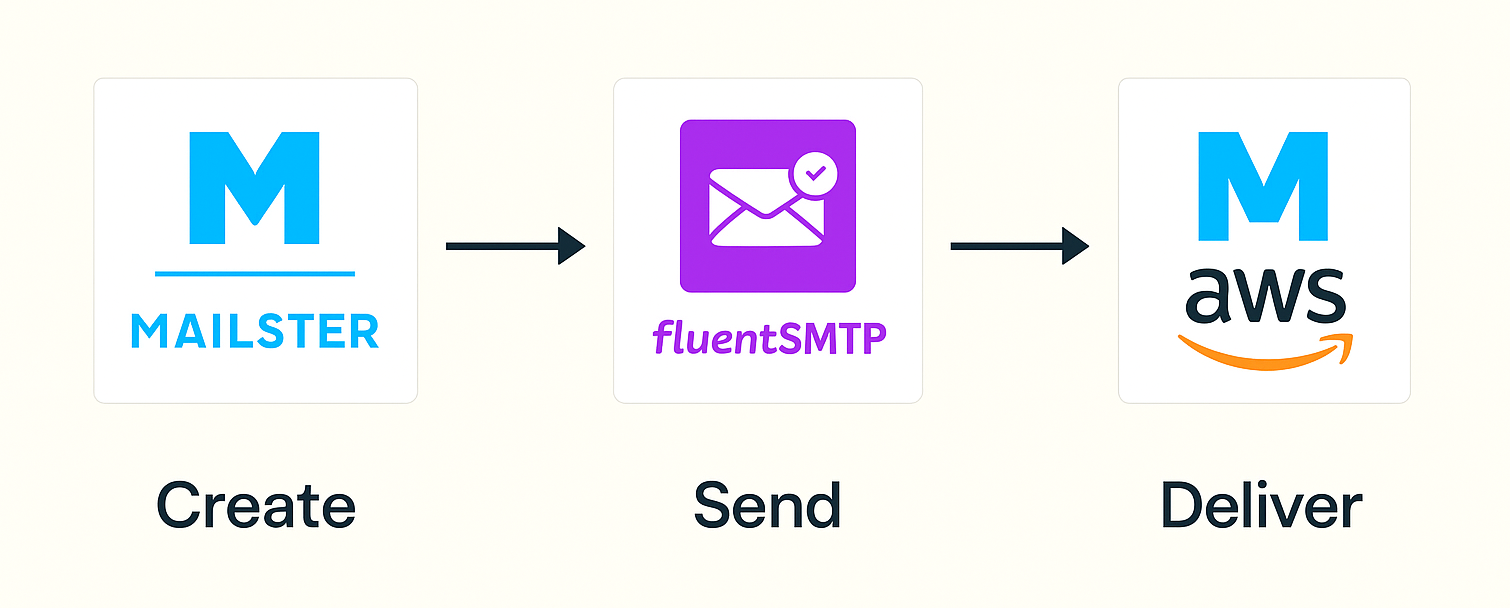
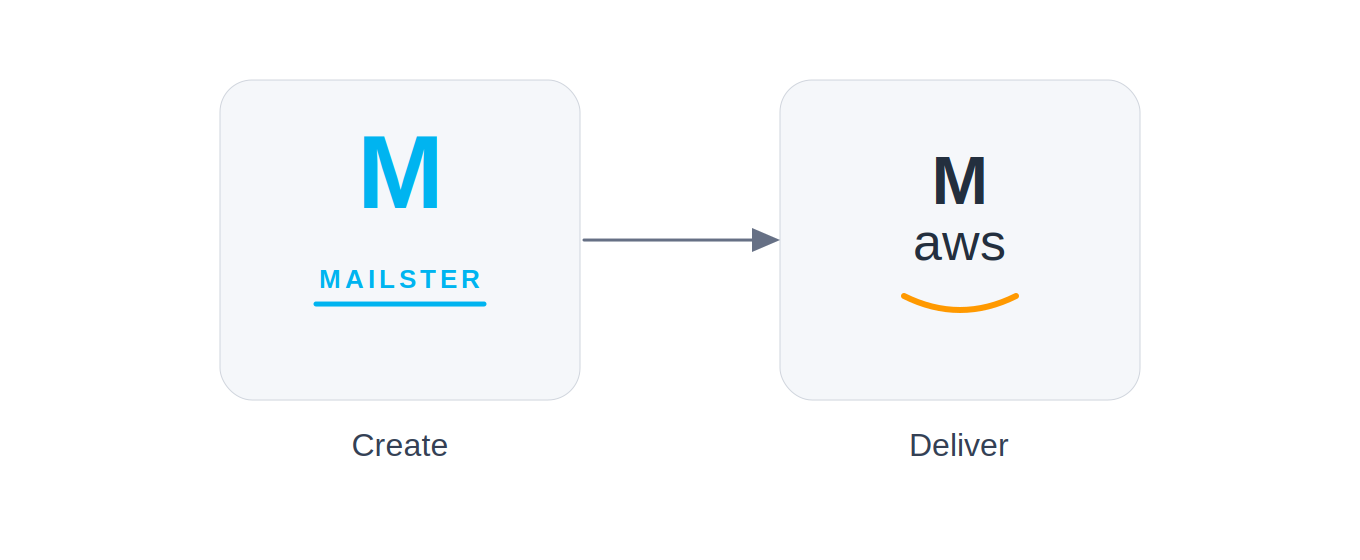
Update README and workflow diagram — remove FluentSMTP

diff --git a/README.md b/README.md
@@ -1,47 +1,54 @@
+# WordPress Newsletter System with Mailster and Amazon SES
 
-# WordPress Newsletter System with Mailster, FluentSMTP, and Amazon SES
+This project documents how I set up a cost-effective, high-deliverability newsletter system for [MamboCity London](https://mambocity.co.uk) using:
 
-This project documents how I set up a cost-effective, high-deliverability newsletter system using:
+- ✅ [Mailster](https://mailster.co/) for newsletter creation and subscriber management
+- ✅ [Amazon SES](https://aws.amazon.com/ses/) for reliable bulk email sending at near-zero cost
+- ✅ Google Analytics via MonsterInsights for full reader behaviour tracking beyond the email
 
-- ✅ [Mailster](https://mailster.co) for newsletter creation and subscriber management
-- ✅ [FluentSMTP](https://fluentsmtp.com) for email delivery integration
-- ✅ [Amazon SES](https://aws.amazon.com/ses/) for reliable bulk email sending
-
-The solution enables me to send bi-monthly campaigns to ~9,000 opted-in subscribers directly from my WordPress website.
-
----
-
-## Workflow
-
-This outlines how the components interact during the email sending process:
-
-<img src="workflow-diagram.png" alt="Workflow Diagram" width="600">
-
-1. **Mailster** – user interface for campaign creation and list management
-2. **FluentSMTP** – delivery bridge that routes outgoing emails
-3. **Amazon SES** – final sender that delivers the emails to recipients
-
-> **Mailster → FluentSMTP → Amazon SES**
+The solution sends approximately monthly campaigns to ~9,000 opted-in subscribers directly from WordPress, with three independent analytics layers that outperform any commercial email platform.
 
 ---
 
-## Startup Costs & Options
+## Architecture
 
-- **Mailster License**: $199 one-time (via CodeCanyon)
-  - Used for managing subscribers, list segmentation, unsubscribe links, and profile update options
-  - Optional — you can use SES + FluentSMTP without Mailster if you handle subscribers another way
-- **FluentSMTP**: Free
-- **Amazon SES**: ~$0.10 per 1,000 emails
+Mailster connects directly to Amazon SES via IAM credentials. No intermediary SMTP bridge is required.
+
+<img src="workflow-diagram.png" alt="Workflow Diagram: Mailster creates, Amazon SES delivers" width="600">
+
+> **Mailster (Create) → Amazon SES (Deliver)**
+
+**Note:** FluentSMTP was used in the initial configuration as a routing bridge but was subsequently removed. Mailster now connects to SES directly via IAM credentials, which simplified the architecture and improved reliability.
+
+---
+
+## Cost
+
+| Component | Cost |
+|---|---|
+| Mailster licence | $199 one-off (CodeCanyon) |
+| Amazon SES | ~$0.10 per 1,000 emails |
+| Cost per send to 9,000 subscribers | ~$0.90 (~£0.72) |
+| Annual cost (approx. monthly sends) | ~£9 per year |
+
+### vs Commercial Platforms (9,000 subscribers)
+
+| Platform | Monthly cost | Annual saving vs this solution |
+|---|---|---|
+| Mailchimp | ~£87–107 | ~£1,071–1,431 |
+| Constant Contact Standard | ~£128 | ~£1,527 |
+| Constant Contact Premium | ~£220 | ~£2,631 |
+| Klaviyo | ~£100–150 | ~£1,191–1,791 |
+| **This solution (AWS SES)** | **~£0.72 per send** | **Baseline** |
 
 ---
 
 ## Tech Stack
 
 - WordPress (self-hosted via SiteGround)
-- Mailster (Premium plugin)
-- FluentSMTP (Free plugin)
-- Amazon Simple Email Service (SES)
-- Google Workspace (for inbox email)
+- Mailster (premium plugin, $199 one-off licence)
+- Amazon Simple Email Service (SES) — eu-west-2 (London)
+- Google Workspace (regular inbox email, preserved alongside SES)
 - DNS and hosting managed via SiteGround
 
 ---
@@ -53,90 +60,138 @@ This outlines how the components interact during the email sending process:
 - **Domain**: `mambocity.co.uk`
 - **Registrar & DNS**: SiteGround
 - **Email hosting**: Google Workspace
-- **SES domain verification**: Done
+- **SES domain verification**: Completed in AWS console
 - **DNS records added on SiteGround**:
   - ✅ SPF: `v=spf1 include:_spf.google.com include:amazonses.com ~all`
-  - ✅ DKIM: 3x CNAME records from SES
+  - ✅ DKIM: 3x CNAME records provided by SES, all verified
   - ✅ DMARC: `v=DMARC1; p=none; aspf=r; adkim=r;`
-  - ✅ MX (MAIL FROM): `mail.mambocity.co.uk`
-- Preserved Google MX records for regular inbox use
+  - ✅ MAIL FROM: `mail.mambocity.co.uk` (subdomain, preserves Google MX on root domain)
+- Google MX records preserved for regular inbox use alongside SES
 
-### 2. FluentSMTP Configuration
+### 2. Mailster Configuration & SES Integration
 
-- Region: `eu-west-2 (London)`
-- IAM user created with `AmazonSESFullAccess`
-- Access Key and Secret Key stored securely
-- Domain and MAIL FROM verified
-- Production access granted (50,000 emails/day, 14/sec)
-- Test email successfully sent and passed SPF/DKIM checks
+- Mailster premium plugin installed via CodeCanyon
+- ~9,000 subscribers uploaded via CSV
+- Mailing lists created and configured
+- Opt-in forms and profile update pages set up
+- Unsubscribe links enabled and tested
+- In Mailster delivery settings: Amazon SES selected as delivery method, IAM Access Key and Secret Key entered directly
 
-### 3. WordPress Plugin Setup
+### 3. AWS SES Configuration
 
-#### FluentSMTP
-- Installed plugin and configured connection to Amazon SES via IAM credentials
-- Ensures WordPress `wp_mail()` sends through SES
+- IAM user created with `AmazonSESFullAccess` policy
+- Access Key and Secret Key stored securely in Mailster delivery settings
+- Region: `eu-west-2` (London)
+- MAIL FROM domain configured: `mail.mambocity.co.uk`
+- Production access granted (50,000 emails/day, 14 per second)
+- Test email sent and confirmed, passing SPF and DKIM checks
 
-#### Mailster
-- Installed premium plugin via CodeCanyon
-- Uploaded ~9,000 subscribers (via CSV)
-- Created mailing lists and opt-in forms
-- Enabled profile updates and mailing list selection by users
+### 4. Integration Testing
 
-### 4. Integration: Mailster + FluentSMTP
-
-- In Mailster: selected **SMTP** but left all fields blank
-- FluentSMTP intercepts and routes Mailster emails via SES
-- No additional SES plugin for Mailster required
-
-### 5. Testing and Sending
-
-- Created and sent internal test campaign via Mailster
-- Confirmed delivery, formatting, unsubscribe links, tracking
+- Internal test campaign created and sent via Mailster
+- Delivery, formatting and unsubscribe links confirmed working
+- Open and click tracking confirmed active in Mailster analytics
 - Scaled up to full list send after successful tests
 
 ---
 
-## Analytics & Deliverability
+## Newsletter Production Workflow
 
-- Mailster tracks opens, clicks, unsubscribes
-- FluentSMTP logs email delivery
-- Amazon SES console shows bounce/complaint metrics
+Campaigns use a deliberate two-stage approach that separates content delivery from email delivery.
 
----
+**Stage 1 — Full newsletter as a WordPress page**
+The complete newsletter is built as a dedicated page on mambocity.co.uk. Because it is a standard WordPress page, it is automatically tracked by Google Analytics via MonsterInsights, capturing page views, scroll depth, time on page and outbound link clicks. The page remains editable after the email has been sent.
 
-## Challenges
-
-- MAIL FROM domain MX config delayed deliverability — fixed by keeping only required MX for SES alongside Google
-- SES production access required a use-case email and took 3 days
-- IAM permissions and DNS setup needed careful configuration
+**Stage 2 — Teaser email via Mailster**
+A shorter teaser campaign is sent to the full subscriber list via SES, containing a brief editorial intro and a link to the full WordPress page. Mailster tracks opens and clicks on the teaser; Google Analytics tracks reader behaviour on the page itself.
 
 ---
 
-## Best Practices
+## Analytics
 
-- Use FluentSMTP for all outgoing WordPress emails
-- Include unsubscribe links in every campaign (for compliance)
-- Use SPF, DKIM, and DMARC for domain reputation
-- Regularly clean your email list based on engagement
+This system delivers three independent analytics layers that exceed what any commercial platform provides:
+
+| Layer | Tool | Data captured |
+|---|---|---|
+| 1 | Mailster | Opens, clicks, unsubscribes, bounces — per campaign |
+| 2 | Google Analytics (MonsterInsights) | Page views, scroll depth, time on page, outbound link clicks |
+| 3 | Amazon SES console | Delivery rate, bounce rate, complaint rate — infrastructure level |
+
+**Advantage over commercial platforms:** Mailchimp, Constant Contact and Klaviyo track only what happens inside the email (opens and link clicks). This system additionally captures full reader behaviour on the newsletter page, providing a complete picture from email open through to action taken.
+
+### Performance (as of May 2026)
+
+| Metric | Value |
+|---|---|
+| Subscribers | ~9,000 |
+| Campaigns sent | 27 |
+| Typical delivery rate | 99%+ |
+| Open rate | 40–49% (industry average: 20–25%) |
+| Bounce rate | 0% across manually reviewed campaigns* |
+
+*Bounce notification routing from SES back into Mailster is not yet automated. Bounces are currently monitored manually via the SES console and acted on by hand. Automatic suppression via SES → SNS → WordPress webhook → Mailster API is a planned improvement.
+
+---
+
+## Challenges & Solutions
+
+### MAIL FROM Domain MX Configuration
+**Challenge:** The SES MAIL FROM domain requires its own MX record, which initially conflicted with Google Workspace MX records.
+
+**Solution:** Configured the MAIL FROM as a subdomain (`mail.mambocity.co.uk`), keeping Google MX records on the root domain. Both now coexist correctly.
+
+### SES Production Access
+**Challenge:** SES starts in sandbox mode, limiting sending to verified addresses only.
+
+**Solution:** Submitted a use-case description explaining the 9,000 opted-in subscriber list, send frequency and compliance practices. Production access granted within 3 days.
+
+### IAM Permissions and DNS Setup
+**Challenge:** IAM permission configuration and DNS record propagation required careful sequencing.
+
+**Solution:** Created a dedicated IAM user with `AmazonSESFullAccess` policy. Confirmed DKIM verification in SES console before testing. Waited 24 hours for DNS propagation before retesting.
+
+---
+
+## Best Practices Implemented
+
+- SPF, DKIM and DMARC all configured, protecting domain reputation and improving deliverability
+- Dedicated MAIL FROM subdomain, separating transactional sending reputation from the main domain
+- IAM user with minimal required permissions, scoped to `AmazonSESFullAccess` only
+- Google MX records preserved, so regular inbox email is unaffected by SES configuration
+- Unsubscribe links in every campaign, ensuring GDPR and CAN-SPAM compliance
+- CSV subscriber upload with opt-in verification, with no cold or purchased lists
+- Regular list cleaning based on engagement metrics recommended
+
+---
+
+## Outstanding Issues
+
+- **Bounce routing not automated** — SES bounce notifications are not yet automatically fed back into Mailster. Planned fix: SES → SNS Topic → HTTP endpoint on mambocity.co.uk → Mailster API
+- **DMARC policy** — currently `p=none` (monitoring only). To be tightened to `p=quarantine` once deliverability is consistently strong over several months
 
 ---
 
 ## Resources
 
 - [Mailster Plugin](https://codecanyon.net/item/mailster-email-newsletter-plugin-for-wordpress/3078294)
-- [Amazon SES Docs](https://docs.aws.amazon.com/ses/latest/dg/)
-- [FluentSMTP Docs](https://fluentsmtp.com/docs/)
+- [Amazon SES Documentation](https://docs.aws.amazon.com/ses/latest/dg/)
 - [SiteGround DNS Management](https://www.siteground.com/kb/how_to_manage_dns_records/)
 
 ---
 
 ## License
+
 MIT License
 
 ---
 
 ## Author
-Robert White — [mambocity.co.uk](https://mambocity.co.uk)
+
+**Robert White** — Co-Director, MamboCity London
+
+- 🌐 [mambocity.co.uk](https://mambocity.co.uk)
+- 💼 [LinkedIn](https://www.linkedin.com/in/robert-r-white-00252738/)
+- 🐙 [GitHub](https://github.com/Roberto-Blanco)
 
 ---
 
